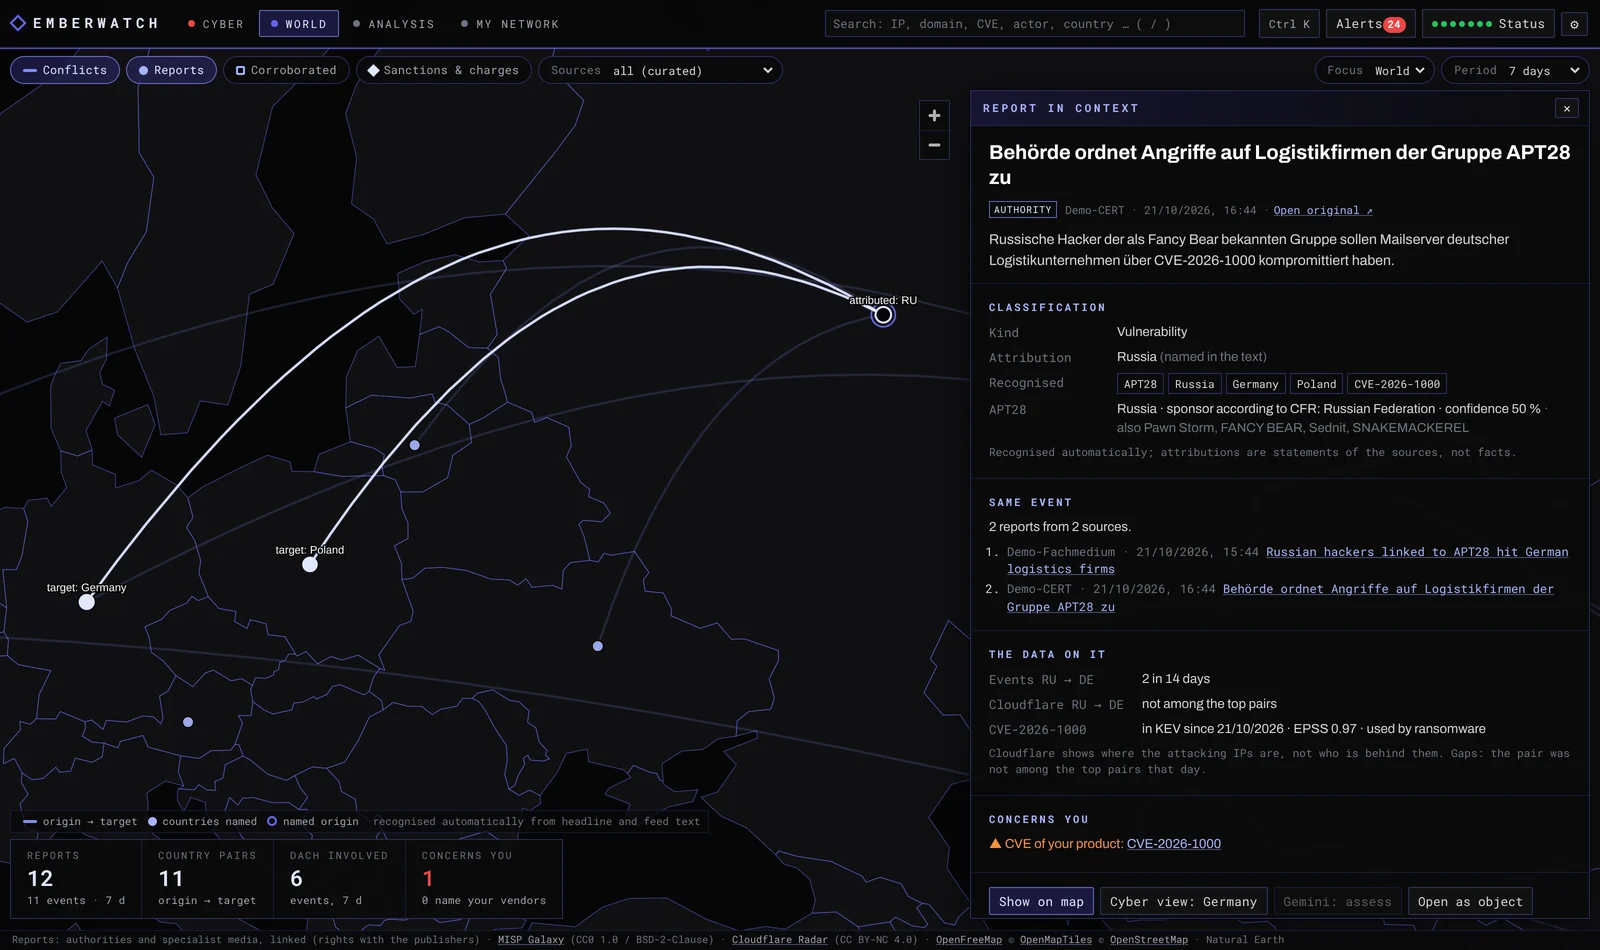
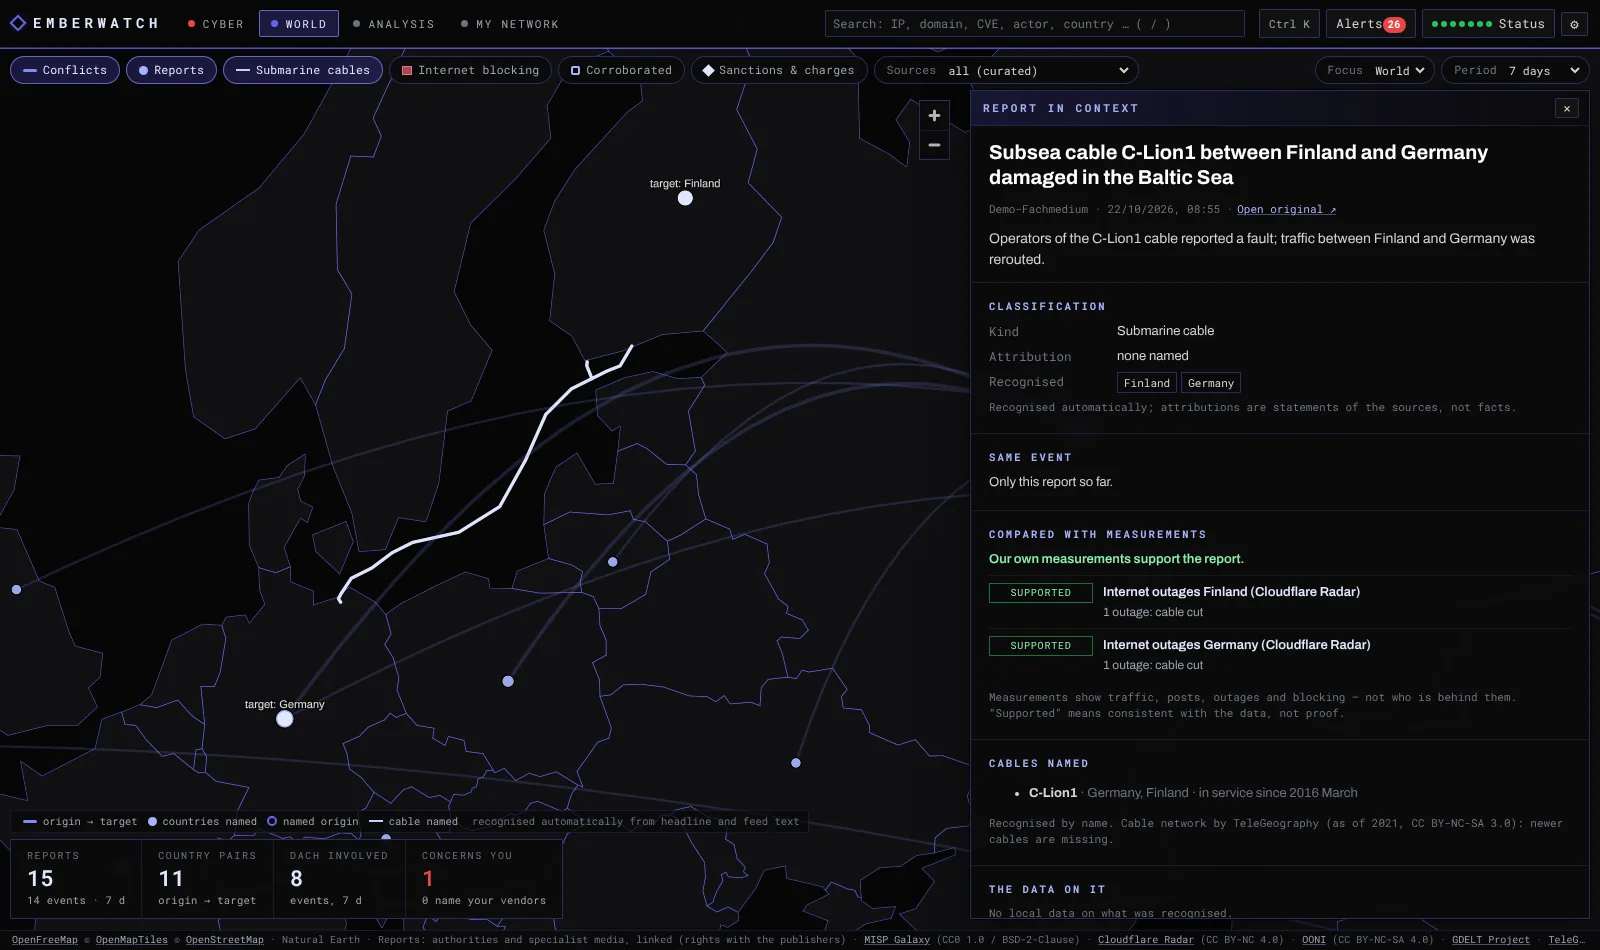
3.3: Doku, Version 3.3.0, Login-Freigabe texts_33.js, ATT&CK-Hinweis mit Jahr, UI-Feinschliff
Claude-Session: https://claude.ai/code/session_01E7aK7U8mApYGQofGbz6dSh

diff --git a/frontend/js/welt.js b/frontend/js/welt.js
@@ -362,8 +362,8 @@ export class Welt {
     kids(node,
       form,
       el("div", { class: "wl-checks" },
-        el("label", { class: "pcheck" }, mine, t("wl.f.mine_label")),
-        el("label", { class: "pcheck" }, supported, t("wl.f.supported_label"))),
+        el("label", { class: "pcheck wl-mine" }, mine, t("wl.f.mine_label")),
+        el("label", { class: "pcheck wl-supported" }, supported, t("wl.f.supported_label"))),
       this.activeFilters(),
       this.f.source === "web" ? el("p", { class: "note web-note" }, t("wl.web_note")) : null,
       el("p", { class: "note" }, t("wl.count", { n: num(this.total || 0), d: num(this.f.days) }),

diff --git a/frontend/styles.css b/frontend/styles.css
@@ -1047,6 +1047,7 @@ a.echip:hover { border-color: var(--border-strong); color: #fff; background: var
 .gov.web { border-style: dashed; color: var(--text-2); }
 .wtag.chk { color: #bbf7d0; border-color: rgba(34, 197, 94, 0.55); }
 .wl-checks { display: flex; flex-wrap: wrap; gap: 2px 14px; margin: 4px 0 6px; }
+.wl-checks .wl-mine { margin: 0; }
 .web-note { border-left: 2px dashed var(--border-strong); padding-left: 8px; }
 .chk-verdict { font-weight: 600; }
 .chk-verdict.supported { color: #86efac; }

diff --git a/backend/app/attack.py b/backend/app/attack.py
@@ -1,14 +1,15 @@
 """MITRE ATT&CK Enterprise (3.3, optional, SOURCES_DISABLE=attack).
 
 Groups (intrusion sets), techniques, software and which group or software uses which technique, from MITRE's STIX
-bundle on GitHub (mitre-attack/attack-stix-data, about 55 MB). The bundle is read object by object (a few MB of memory
-instead of several hundred) and only when it changed (ETag). Revoked and deprecated objects are left out.
+bundle on GitHub (mitre-attack/attack-stix-data, about 55 MB). The download goes to a file and is parsed object by
+object (measured: about 60 MB process memory instead of about 270 MB with json.load), and only when it changed (ETag).
+Revoked and deprecated objects are left out.
 
 Licence: royalty-free, also commercially; every copy must carry MITRE's copyright and licence:
 "© 2026 The MITRE Corporation. This work is reproduced and distributed with the permission of The MITRE Corporation."
 
 Groups are linked to the actors of the MISP Galaxy and software to the malware names of the local data by name and
-alias (case-insensitive).
+alias, compared by letters and digits only ("Agent Tesla" = "AgentTesla").
 """
 from __future__ import annotations
 
@@ -28,7 +29,7 @@ log = logging.getLogger("emberwatch.attack")
 URL = "https://raw.githubusercontent.com/mitre-attack/attack-stix-data/master/enterprise-attack/enterprise-attack.json"
 MAX_BYTES = 150 * 1024 * 1024
 CHUNK = 1 << 20
-NOTICE = "© The MITRE Corporation. This work is reproduced and distributed with the permission of The MITRE Corporation."
+NOTICE = "© {year} The MITRE Corporation. This work is reproduced and distributed with the permission of The MITRE Corporation."
 KINDS = {"intrusion-set": "group", "attack-pattern": "technique", "malware": "software", "tool": "software",
          "x-mitre-tactic": "tactic"}
 EXT_RE = re.compile(r"^(G\d{4}|T\d{4}(?:\.\d{3})?|S\d{4}|TA\d{4})$")
@@ -93,16 +94,18 @@ def _ext(obj: dict[str, Any]) -> tuple[str | None, str | None]:
     return None, None
 
 
-def parse(fh: TextIO) -> tuple[list[tuple], list[tuple[str, str]], str | None, list[str]]:
-    """(objects, uses relations, ATT&CK version, tactic order) of the bundle."""
+def parse(fh: TextIO) -> tuple[list[tuple], list[tuple[str, str]], dict[str, str | None], list[str]]:
+    """(objects, uses relations, {"version", "year"} of the collection, tactic order) of the bundle."""
     objs: dict[str, tuple] = {}
     uses: list[tuple[str, str]] = []
-    version = None
+    info: dict[str, str | None] = {"version": None, "year": None}
     order: list[str] = []
     for o in iter_objects(fh):
         t = o.get("type")
         if t == "x-mitre-collection":
-            version = str(o.get("x_mitre_version") or "")[:10] or None
+            info["version"] = str(o.get("x_mitre_version") or "")[:10] or None
+            year = str(o.get("modified") or o.get("created") or "")[:4]
+            info["year"] = year if year.isdigit() else None
             continue
         if t == "x-mitre-matrix":
             order = [str(x) for x in o.get("tactic_refs") or []]
@@ -133,7 +136,7 @@ def parse(fh: TextIO) -> tuple[list[tuple], list[tuple[str, str]], str | None, l
     for sid, row in objs.items():
         ord_ = order.index(sid) + 1 if sid in order else 0
         rows.append(row[:8] + (ord_,) + row[9:])
-    return rows, uses, version, order
+    return rows, uses, info, order
 
 
 class Attack:
@@ -169,13 +172,14 @@ class Attack:
                             raise ValueError("bundle too large")
                         fh.write(chunk)
                 new_etag = r.headers.get("etag")
-            rows, uses, version, _ = await asyncio.to_thread(self._parse_file, tmp)
+            rows, uses, info, _ = await asyncio.to_thread(self._parse_file, tmp)
             if len(rows) < 500:  # a truncated or foreign file must not replace good data
                 raise ValueError(f"only {len(rows)} objects")
             await asyncio.to_thread(self._store, rows, uses)
             if new_etag:
                 self.db.meta_set("attack_etag", new_etag[:200])
-            self.db.meta_set("attack_version", version or "")
+            self.db.meta_set("attack_version", info["version"] or "")
+            self.db.meta_set("attack_year", info["year"] or "")
             self.db.meta_set("attack_loaded_at", utcnow())
             self._index = self._sw = None
             self.db.status("mitre_attack", True, "", self._count())
@@ -191,7 +195,7 @@ class Attack:
                 pass
 
     @staticmethod
-    def _parse_file(path: Path) -> tuple[list[tuple], list[tuple[str, str]], str | None, list[str]]:
+    def _parse_file(path: Path) -> tuple[list[tuple], list[tuple[str, str]], dict[str, str | None], list[str]]:
         with path.open("r", encoding="utf-8") as fh:
             return parse(fh)
 
@@ -265,3 +269,7 @@ class Attack:
 
     def version(self) -> str | None:
         return self.db.meta_get("attack_version") or None
+
+    def notice(self) -> str:
+        """MITRE's copyright notice with the year of the loaded release (required on every copy)."""
+        return NOTICE.format(year=self.db.meta_get("attack_year") or "2026")

diff --git a/backend/tests/test_33.py b/backend/tests/test_33.py
@@ -293,7 +293,7 @@ def bundle(extra=0) -> str:
     def ref(eid, kind):
         return [{"source_name": "mitre-attack", "external_id": eid, "url": f"https://attack.mitre.org/{kind}/{eid.replace('.', '/')}"}]
     objs = [
-        {"type": "x-mitre-collection", "id": "x-mitre-collection--1", "x_mitre_version": "20.0"},
+        {"type": "x-mitre-collection", "id": "x-mitre-collection--1", "x_mitre_version": "20.0", "modified": "2026-10-13T12:00:00.000Z"},
         {"type": "x-mitre-matrix", "id": "x-mitre-matrix--1", "tactic_refs": ["x-mitre-tactic--ia", "x-mitre-tactic--c2"]},
         {"type": "x-mitre-tactic", "id": "x-mitre-tactic--c2", "name": "Command and Control", "x_mitre_shortname": "command-and-control",
          "external_references": ref("TA0011", "tactics")},
@@ -336,8 +336,8 @@ def test_stix_stream_parser_and_actor_pages(m, monkeypatch):
     from app import attack
     text = bundle(extra=600)
     monkeypatch.setattr(attack, "CHUNK", 257)  # objects across many chunk boundaries
-    rows, uses, version, order = attack.parse(io.StringIO(text))
-    assert version == "20.0" and order == ["x-mitre-tactic--ia", "x-mitre-tactic--c2"]
+    rows, uses, info, order = attack.parse(io.StringIO(text))
+    assert info == {"version": "20.0", "year": "2026"} and order == ["x-mitre-tactic--ia", "x-mitre-tactic--c2"]
     ids = {r[2] for r in rows}
     assert {"G0007", "T1566.001", "T1071.001", "S0650", "S0154", "TA0011"} <= ids and not ids & {"G0999", "T1999"}
     assert ("intrusion-set--apt28", "attack-pattern--dep") not in uses and len(uses) == 4
@@ -371,7 +371,7 @@ def test_stix_stream_parser_and_actor_pages(m, monkeypatch):
         page = tc.get("/api/obj", params={"type": "actor", "value": "APT28"}).json()
         sec = next(s for s in page["sections"] if s.get("title", "").startswith("Techniques according to MITRE ATT&CK"))
         assert sec["rows"][0][0] == "Initial Access" and sec["rows"][0][1][0]["t"] == "T1566.001 Spearphishing Attachment"
-        assert sec["rows"][1][0] == "Command and Control" and "The MITRE Corporation" in sec["note"]
+        assert sec["rows"][1][0] == "Command and Control" and "© 2026 The MITRE Corporation" in sec["note"]
         from app.objects import object_context
         ctx = object_context(page)
         assert any(r == ["Initial Access", "T1566.001 Spearphishing Attachment"] for x in ctx["sections"] for r in x.get("rows", []))

diff --git a/backend/app/main.py b/backend/app/main.py
@@ -455,8 +455,9 @@ CSP = (
     f"worker-src 'self'; connect-src 'self' {BASEMAP_HOST}; font-src 'self'; "
     "object-src 'none'; base-uri 'none'; frame-ancestors 'none'; form-action 'self'"
 )
-PUBLIC_PATHS = {"/healthz", "/login", "/login.html", "/api/auth/login", "/api/auth/status", "/favicon.svg",
-                "/styles.css", "/js/login.js", "/js/i18n.js", "/js/texts.js", "/js/texts_welt.js", "/js/boot.js",
+PUBLIC_PATHS = {"/healthz", "/login", "/login.html", "/api/auth/login", "/api/auth/status", "/favicon.svg", "/styles.css",
+                # the login page and the modules it imports (i18n.js loads all text catalogues)
+                "/js/login.js", "/js/i18n.js", "/js/texts.js", "/js/texts_welt.js", "/js/texts_33.js", "/js/boot.js",
                 "/api/myip/report", "/nic/update"}  # the last two authenticate with their own token
 PUBLIC_PREFIXES = ("/vendor/fonts/",)
 MAX_BODY = 20 * 1024 * 1024  # JSON requests: mail analysis takes up to 15 MB of text (+ JSON escaping)

diff --git a/backend/app/objects.py b/backend/app/objects.py
@@ -694,7 +694,8 @@ class Objects:
 
     # --- MITRE ATT&CK (3.3) ------------------------------------------------------------------------------------------------------------
     def _attack_note(self, r: Result) -> str:
-        return r.t("ob.n.attack", v=(self.attack.version() if self.attack else None) or "?", notice=ATTACK_NOTICE)
+        return r.t("ob.n.attack", v=(self.attack.version() if self.attack else None) or "?",
+                   notice=self.attack.notice() if self.attack else ATTACK_NOTICE.format(year="2026"))
 
     def _attack_group(self, r: Result, names: list[str]) -> None:
         g = self.attack.group_for(names) if self.attack else None

diff --git a/backend/app/__init__.py b/backend/app/__init__.py
@@ -1,4 +1,4 @@
 """Emberwatch – self-hosted cyber threat intelligence map."""
 
-__version__ = "3.2.1"
+__version__ = "3.3.0"
 REPO_URL = "https://github.com/SaturdayNetLab/emberwatch"

diff --git a/THIRD_PARTY_NOTICES.md b/THIRD_PARTY_NOTICES.md
@@ -20,7 +20,8 @@ Python dependencies (installed into the image, not part of this repository) are 
 | Data | Files | Source and licence |
 |---|---|---|
 | Country shapes and centroids | `frontend/data/countries.geojson`, `frontend/data/centroids.json` | Natural Earth, public domain |
-| Submarine cables and landing points (snapshot June 2021) | `frontend/data/cables.geojson`, `frontend/data/landing-points.geojson` | TeleGeography, Submarine Cable Map, CC BY-NC-SA 3.0. These derived files are distributed under the same licence. |
+| Submarine cables and landing points (snapshot June 2021) | `frontend/data/cables.geojson`, `frontend/data/landing-points.geojson` | TeleGeography, Submarine Cable Map, CC BY-NC-SA 3.0. These derived files are distributed under the same licence. Country codes of the landing points derived with Natural Earth (public domain). |
+| City coordinates for the locations of cloud regions | `frontend/data/places.json` | Natural Earth, Populated Places, public domain (`scripts/build_places.py`) |
 
 ## Data loaded at runtime
 
@@ -30,6 +31,14 @@ These data are not part of the repository; each installation fetches them direct
 - abuse.ch Feodo Tracker and ThreatFox – abuse.ch terms of use
 - Ransomware.live – "Source: Ransomware.live", no redistribution of raw data
 - CISA Known Exploited Vulnerabilities – public
+- ENISA European Vulnerability Database (EUVD), exploited vulnerabilities – reproduction authorised provided the source is acknowledged
+- Metasploit Framework module metadata (`db/modules_metadata_base.json`, Rapid7) – BSD-3-Clause; only the metadata is downloaded, no exploit code
+- Nuclei templates index (`cves.json`, ProjectDiscovery) – MIT; only the index is downloaded
+- MITRE ATT&CK Enterprise (STIX bundle) – © The MITRE Corporation. This work is reproduced and distributed with the permission of The MITRE Corporation. (The notice with the year of the loaded release is shown wherever ATT&CK data appear.)
+- abuse.ch URLhaus – abuse.ch terms of use
+- OONI measurement aggregates – CC BY-NC-SA 4.0, © OONI
+- GDELT Project DOC 2.0 API (headlines, optional) – free use with citation of and a link to the GDELT Project
+- Status pages of AWS, Microsoft Azure, Google Cloud and Cloudflare – public incident information of the providers
 - FIRST EPSS – FIRST terms
 - NVD – This product uses data from the NVD API but is not endorsed or certified by the NVD.
 - Shodan InternetDB – free for non-commercial use
@@ -40,6 +49,6 @@ These data are not part of the repository; each installation fetches them direct
 - SSLMate Cert Spotter – SSLMate terms
 - DB-IP Lite (IP to City, IP to ASN) – CC BY 4.0, "IP Geolocation by DB-IP"
 - MISP Galaxy, cluster "threat-actor" (threat actors, aliases, attributions) – CC0 1.0 / BSD 2-Clause, https://github.com/MISP/misp-galaxy
-- Security reports of the world view (NCSC UK, BSI, The Record, BleepingComputer, SecurityWeek, Krebs on Security, Golem.de and feeds you add) – headlines, teasers and preview images as published in the feeds; the rights stay with the publishers, every report links to its original
+- Security reports of the world view (NCSC UK, BSI, CERT-EU, CISA, The Record, BleepingComputer, SecurityWeek, Krebs on Security, Golem.de, heise Security and feeds you add) – headlines, teasers and preview images as published in the feeds; the rights stay with the publishers, every report links to its original
 - Map tiles: OpenFreeMap, © OpenMapTiles, © OpenStreetMap contributors
 - Google Gemini (optional) – Google terms

diff --git a/CHANGELOG.md b/CHANGELOG.md
@@ -1,5 +1,33 @@
 # Changelog
 
+## 3.3.0 – 2026-10-22
+
+Reports are checked against measurements, and more of the IT world is on the map: submarine cables, internet blocking and cloud platform incidents. The analysis gains MITRE ATT&CK, ENISA and public exploit code.
+
+### Added
+- Weltlage: every report is compared with Emberwatch's own data – a DDoS with the Cloudflare Radar share of the target country (against the 14 days before), ransomware with the group's leak site posts, cable damage and shutdowns with internet outages, blocking with OONI, CVEs with CISA KEV and ENISA, malware with active C2 servers. The result (supported, not supported, unclear) is shown in the report with the numbers behind it, as a tag in the list and as a filter; Gemini receives it as context
+- Weltlage: submarine cables named in reports are recognised by their TeleGeography name, highlighted on the map and listed in the report; new kinds "submarine cable" and "internet blocking"
+- Weltlage: layer and tab "Internet blocking" – OONI measurements per country (confirmed blocking, anomalous websites and messengers, compared with the period before) and shutdowns Cloudflare Radar attributes to a government; links to OONI Explorer and IODA
+- Weltlage: the worldwide press via GDELT as an optional, unverified source – shown only when chosen, kept 14 days, never grouped with the curated reports, no alerts
+- New feeds: CERT-EU security advisories, CISA cybersecurity advisories, heise Security
+- Cyberlage: layer "Cloud incidents" with the active incidents of AWS, Azure, Google Cloud and Cloudflare at the documented location of the affected region; analysis view "Platform incidents"; the platforms you use (My network → Products) raise an alert for each new incident
+- MITRE ATT&CK: techniques by tactic and software on actor pages, the ATT&CK entry on malware pages (Enterprise bundle, loaded only when it changed)
+- ENISA EUVD: vulnerabilities ENISA lists as exploited, on CVE pages, in reports and in the vulnerability view, which can also list those not in CISA KEV
+- Public exploit code: Metasploit modules and Nuclei templates per CVE (metadata only, no exploit code) on CVE pages, in reports and in the vulnerability view, with a filter
+- URLhaus: malware URLs under your domains or in your networks raise alerts
+- `SOURCES_DISABLE` switches optional sources off: `ooni`, `gdelt`, `attack`, `euvd`, `exploits`, `urlhaus`, `cloud_status`
+- Status panel: the new sources, the loaded ATT&CK release and the optional sources that are off
+
+### Fixed
+- Submarine cable data: 125 landing points carried the code of a territory instead of their country (United Kingdom as South Georgia, Denmark as Greenland, Finland as Åland), so country cards and outage findings missed their cables
+- Filter rows: checkboxes no longer squeeze their label into several lines
+- Small screens: a Weltlage tab opens the collapsed side panel (as in the Cyberlage); the chips of the mode band no longer wrap
+- Map style errors outside the basemap are logged in the browser console instead of being swallowed
+
+### Changed
+- The credits line starts with the map attribution; hovering or focusing it shows every source
+- Vulnerability view: choice of catalogue (CISA KEV, or ENISA without KEV), ENISA and exploit tags, the vendor list follows the selection
+
 ## 3.2.1 – 2026-10-22
 
 Fixes from an independent review of 3.2.0.
